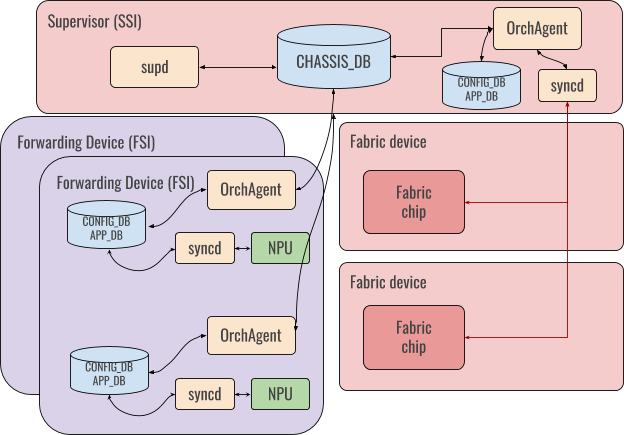
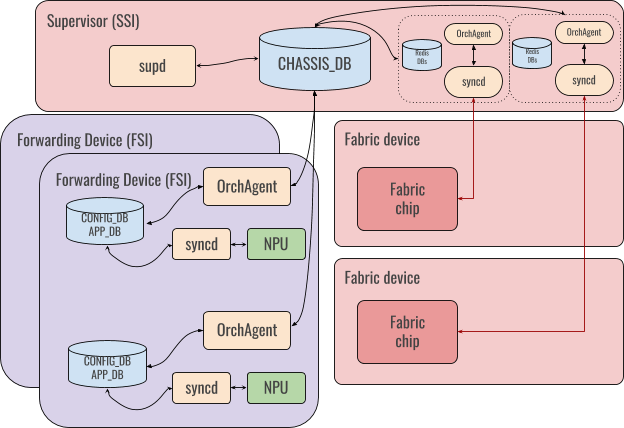
Updates after review meeting dated Jun-18 2020
NPU to be replaced by ASIC/Multi-ASIC for consistency throughout the document [AI: Kartik/Arista]
=> document updated to use ASIC instead of NPU

Section 1.2: Config & Management Requirements

Rephrase second bullet to reflect port configuration is static i.e physical wiring only
=> Wording clarified as requqested

Add context in the document for dynamic port changes [AI: Kartik/Arista]
=> Section outlining dynamic system port support added in "Future Work" section

Section 2.3:  State Sharing

Update image separate Syncd,  swss, DB container per fabric chip [AI: Kartik/Arista]
=> diagram updated to show multiple syncd, one per fabric chip

Section 2.4:  Chip Management

Update section 2.4.2 to clarify switch ID numbering  scheme in the system with reference from SAI specs.  [AI: Kartik/Arista]
=> Section updated to reflect the correct numbering scheme with reference to the VOQ SAI spec.

Section 2.5:  Port Management

Section 2.5.2 update system port table schema [AI: Kartik/Arista]
=> Updated to reflect proper instance naming as below

Section 2.5.3 Update inband port to be explicitly provisioned [AI: Kartik/Arista]
=> wording around inband port is clarified.

Require more clarity what is meant by instance - if LC has two ASICs then what will instance scope mean - swss/CPU instance? Is there is 1:1 mapping between instance to ASIC?  [AI: Kartik/Arista]
=> Added new instance naming section describing naming scheme for both the FSI and an ASIC

diff --git a/doc/chassis/system-ports.md b/doc/chassis/system-ports.md
@@ -23,7 +23,8 @@
 ###### Revision
 | Rev |     Date    |       Author       | Change Description |      
 |:---:|:-----------:|:------------------:|--------------------|
-| 0.1 | May-19 2020 | Kartik Chandran (Arista Networks) | Initial Version |  
+| 0.1 | May-19 2020 | Kartik Chandran (Arista Networks) | Initial Version |
+| 0.2 | June-22 2020 | Kartik Chandran (Arista Networks) | First set of review comments from public review |  
 
 # About this Manual
 
@@ -56,26 +57,24 @@ However, this architecture makes no hard assumptions about operating within a ch
 | FSI  | Forwarding SONiC Instance |  SONiC instance on a packet forwarding module like a linecard.
 | SSI | Supervisor SONiC Instance |  SONiC instance on a central supervisor module that controls a cluster of forwarding instances and the interconnection fabric.
 | Forwarding Device | A unit of hardware that runs SONiC and is responsible for packet forwarding |
-| NPU | Network Processing Unit | A component on a forwarding device that performs the packet forwarding function 
+| ASIC | Application Specific Integrated Circuit | Refers to the forwarding engine on a device that is responsible for packet forwarding. Also referred to as NPU
 
 
 # 1 Requirements
 
-
 # 1.1 Functional Requirements
-
 
 ## 1.1.1 Distributed Operation
 
-* Each forwarding device must run an independent SONiC instance (called   the Forwarding SONiC Instance or FSI) which controls the operation of one or more NPUs on the device, including the front panel and internal fabric ports connected to the NPU.
+* Each forwarding device must run an independent SONiC instance (called   the Forwarding SONiC Instance or FSI) which controls the operation of one or more ASICs on the device, including the front panel and internal fabric ports conn ected to the ASICs.
 * A Forwarding device must act as a fully functional router that can run routing protocols and other networking services just like single box SONiC devices. 
 * The system of forwarding devices should be managed by a single central Supervisor SONiC instance (SSI) that also manages the internal fabric that interconnects the forwarding devices.
 
 ## 1.1.2 Intra-System Control Plane
 
-- Each FSI should be able to connect to other FSIs over the internal fabric in order to be able to run protocols like BGP within the system. 
+* Each FSI should be able to connect to other FSIs over the internal fabric in order to be able to run protocols like BGP within the system. 
 
-- This connection must be fate shared with the data path so that a loss of connectivity in the internal fabric is reflected as loss of internal control plane connectivity as well.
+* This connection must be fate shared with the data path so that a loss of connectivity in the internal fabric is reflected as loss of internal control plane connectivity as well.
 
 ## 1.1.3 Intra-System Management Plane
 
@@ -83,9 +82,13 @@ Every FSI must have a management interface over which it can reach the superviso
 
 ## 1.2 Configuration and Management Requirements
 
-- Each SONiC instance must be independently configurable and manageable through standard SONiC management interfaces.
+* Each SONiC instance must be independently configurable and manageable through standard SONiC management interfaces.
  
-- All ports in the system must be statically provisioned at startup. Any changes to physical port configuration require a restart of the entire system.
+* The physical configuration of the entire system is fixed at startup. This includes
+  * The Hardware SKU that is used for each forwarding device
+  * The Physical port organization of the entire system
+
+* Live replacement of forwarding devices or pluggable modules like transceivers must be supported as long as the part being replaced is an identical SKU.
 
 # 2 Design
 
@@ -95,7 +98,7 @@ In order for the system to function correctly, some state that provides the glob
 
 ## 2.2 SAI Support
 
-Support for VOQ based forwarding in SONiC is dependent on the [SAI VOQ API](https://github.com/opencomputeproject/SAI/blob/0dfc6bf390e4ace3fcc59c2ba47e387ff8aa36f4/doc/SAI-Proposal-VoQ-Switch.docx).
+Support for VOQ based forwarding in SONiC is dependent on the [SAI VOQ API](https://github.com/opencomputeproject/SAI/blob/master/doc/VoQ/SAI-Proposal-VoQ-Switch.md)
 
 ## 2.3 State Sharing
 
@@ -124,32 +127,51 @@ The Chassis DB runs in a new container known as ‘docker-database-chassis’ as
 ```
 Two new attributes are added to the DEVICE_METADATA object in Config DB. These are used to convey to an FSI that a ChassisDB exists in the system. 
 
+
 ## 2.4 Chip Management
 There are two kinds of chips that are of interest 
 
-### 2.4.1  NPU 
+### 2.4.1 Forwarding ASIC 
 
-The NPU (also referred to as switching ASIC in SONiC terminology) performs all the packet reception, forwarding, queueing and transmission functions in the system.
+The ASIC (also referred to as NPU in SONiC terminology) performs all the packet reception, forwarding, queueing and transmission functions in the system. 
 
-## 2.4.2 Fabric Chip
+### 2.4.2 Fabric Chip
 
 The internal fabric that interconnects forwarding engines is made up of multiple fabric chips that are responsible for moving packets from the source to destination forwarding engine.
 
-NPUs are connected to fabric chips over internal links that terminate on fabric ports at each end. 
+ASICs are connected to fabric chips over internal links that terminate on fabric ports at each end. 
 
-Fabric chips do not play any role in packet forwarding and do not need to be explicitly configured once initialized. All subsequent interactions with fabric chips are for monitoring only.
+Fabric chips do not play any role in packet forwarding and do not need to be explicitly configured once initialized. All subsequent interactions with fabric chips are for monitoring only. 
 
-Each chip in the system (NPU and Fabric Chip) in the system is given a global ID called a Switch ID.  In addition, to support multi-core NPUs each core within a forwarding engine has a Core ID. The combination of (Switch ID, Core ID) must be globally unique across the entire system. 
+All chips are managed based on the existing Multi-ASIC paradigm in SONiC, in which there is one instance of syncd (and SAI), swss and other related agents per chip. 
 
-## 2.5 Port Management 
+### 2.4.3 Switch Numbering
+
+* Each chip in the system (ASIC and Fabric Chip) in the system is given a global ID called a Switch ID. 
+* Each chip consumes C consecutive switch IDs, where C is the number of switching cores.
+* Each core on a chip has a core ID between 0 and C.
+
+Please see the SAI VoQ spec for more detailed examples.
+
+## 2.5 SONiC Instance and ASIC Naming
+
+### Forwarding SONiC Instance
+
+Each FSI has a globally unique name that represents that SONiC instance. In a modular chassis, the name would conventionally be "Lineard-N", where N is the slot in which the linecard is inserted.
+
+### ASIC Name
+
+In addition, each ASIC has a globally unique name which would conventionally be "Linecard-N.K", where K is a slot local identifier of the ASIC.
+
+## 2.6 Port Management 
 
 There are four types of ports that need to be managed
 
-### 2.5.1 Local Ports 
+### 2.6.1 Local Ports 
 
 These are front panel interfaces that are directly attached to each FSI. They are modeled and represented in SONiC exactly as they are with existing fixed configuration devices.
 
-### 2.5.2 System Ports
+### 2.6.2 System Ports
 
 Every port on the system requires a global representation in addition to its existing local representation. This is known as a System Port (AKA sysport). Every system port is assigned an identifier that is globally unique called a system_port_id. In addition, every port is assigned a local port ID within a core called a “Core Port Id”. The scope of the Local Port Id is _within_ a core of a forwarding engine.
 
@@ -157,38 +179,32 @@ System Ports are modeled in ChassisDB in the SYSTEM_PORT table.
 
 ```
 ;Layer2 port representation across a distribute VoQ system
-;instance_name is the name of the SONiC instance on the forwarding device on ;which the port is present
-key              = SYSTEM_PORT|instance_name|ifname  
+;instance_name is the globally unique name  on the forwarding device on ;which the port is present
+key              = SYSTEM_PORT|asic_name|ifname             ;
 speed            = 1*6DIGIT      ; port line speed in Mbps
 system_port_id   = 1*6DIGIT      ; globally unique port ID
-switch_id        = 1*2DIGIT      ; global switch ID
+switch_id        = 1*2DIGIT      ; global switch ID. 
 core_id          = 1*2DIGIT      ; core id within switch_id. 
-                                 ; switch_id+core_id must be globally 
-                                 ; unique
 core_port_id     = 1*6DIGIT      ; chip specific port  
 ```
 
-The globally unique key in the SYSTEM_PORT_TABLE is the name of the FSI instance and the front panel interface name.
+The globally unique key in the SYSTEM_PORT_TABLE is the name of the ASIC instance and the front panel interface name. The ASIC name is chosen so that various agents like syncd can use this name as a filtering criterion to select the subset of entities that they need to operate on in order to manage a specific ASIC.
 
-### 2.5.3 Inband Ports
+The only restriction on selecting the ifname is that the key "SYSTEM_PORT|asic_name|ifname" must uniquely identify a port on the system.
+
+### 2.6.3 Inband Ports
 
 Inband ports are required to provide control plane connectivity between  forwarding engines. They are connected to the forwarding device local CPU on one side and the internal fabric on the other. 
 
-Every inband port is assigned a System Port Id just like front panel ports which are known to all the forwarding devices. Thus, every inband port is reachable from every forwarding engine.
+Every inband port is assigned a System Port ID just like front panel ports which is known to all the forwarding devices. Thus, every inband port is reachable from every forwarding engine.
 
-All other provisioning and configuration aspects of Inband ports are the same as front panel ports
-
-### 2.5.4 Fabric Ports
-
+### 2.6.4 Fabric Ports
 
 The provisioning and management of Fabric ports is outside the scope of this document and will be documented as a separate proposal.
 
+## 2.7 Orchestration Agent
 
-## 2.6 Orchestration Agent
-
-
-### System Port Handling
-
+### 2.7.1 System Port Handling
 
 System port configuration is expected to completely static and known at the start of the system.
 
@@ -199,35 +215,48 @@ A system port can be used in lieu of a physical port in several SAI API calls as
 
 Portsyncd does not have to support sysports because sysports do not have any associated kernel devices. 
 
-
 # 3 Testing
-
 
 Test coverage for the distributed VoQ architecture is achieved by extending the existing virtual switch based SWSS pytest infrastructure.
 
-
 The distributed switching architecture is represented as multiple VS instances connected with each other and called as Virtual Chassis, where one of the instance plays the role of the SSI and the remaining instances as FSIs. 
-
 
 ## 3.1 Regression Testing
 
-
 Existing SWSS pytests can be executed against any of the instances in the virtual chassis to ensure that existing SONiC functionality is not affected while operating in a distributed environment.
-
 
 ## 3.2 Distributed VoQ functionality
 
-
 Additional tests that specifically validate distributed VoQ forwarding functionality run only in the virtual chassis environment. 
-
 
 ### 3.2.3 test_virtual_chassis.py
 
-
 Is the top level test driver that executes testcases against the virtual chassis. 
-
 
 Sysport handling is tested by test_chassis_sysport which validates that
 * System ports can be populated in CHASSIS_DB
 * All FSIs can connect to CHASSIS_DB and access sysport state
 * Orchagent programs the correct SAI Redis ASIC_DB state to represent the configured sysport.
+
+# 4 Future Work
+
+## Dynamic System Ports 
+
+Dynamic system port support is required to support the following forwarding scenarios
+
+* Addition of a new forwarding device into an existing running system
+* Replacing a forwarding device with another device of a different hardware SKU (such as replacing a linecard with a new linecard of a different SKU in a chassis slot).
+
+Both these scenarios can be supported smoothly as long as the global system port numbering scheme is maintained and the modifications to system ports can be performed without impacting the System Port IDs of the running system.
+
+Support for dynamic system ports requires SAI support for the `create_port` and `remove_port` calls. 
+
+### Overview of PortsOrch changes
+
+ * Subscribe to the SYSTEM_PORT table in PortsOrch
+ * React to changes in the SYSTEM_PORT table
+ * Make the appropriate `create_port` and `remove_port` calls.
+
+In addition, forwarding features that are dependent on System Ports need to react to these changes and reprogram the related forwarding plane state such as routing nexthops, LAG membership etc.
+
+
